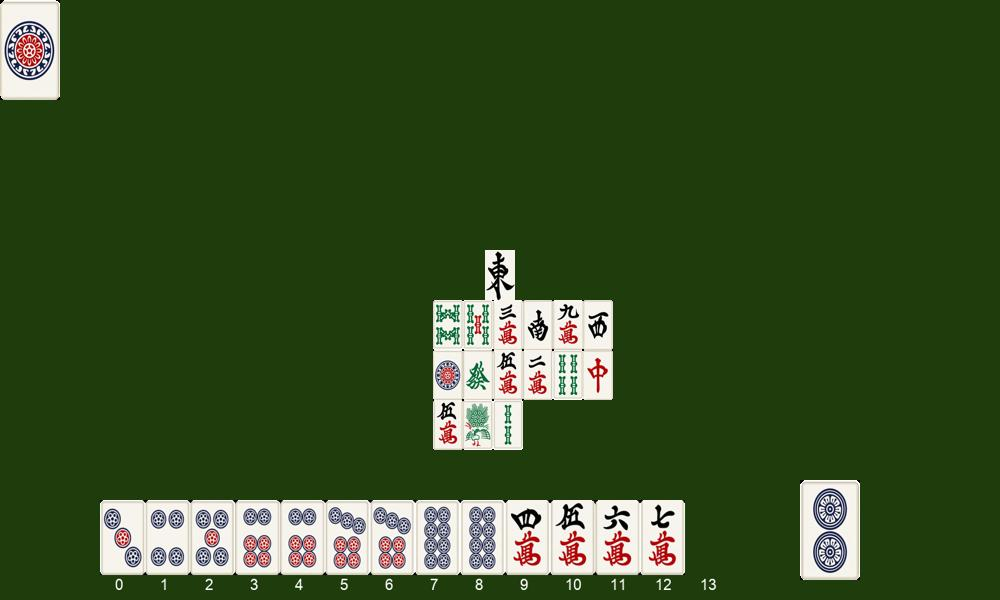
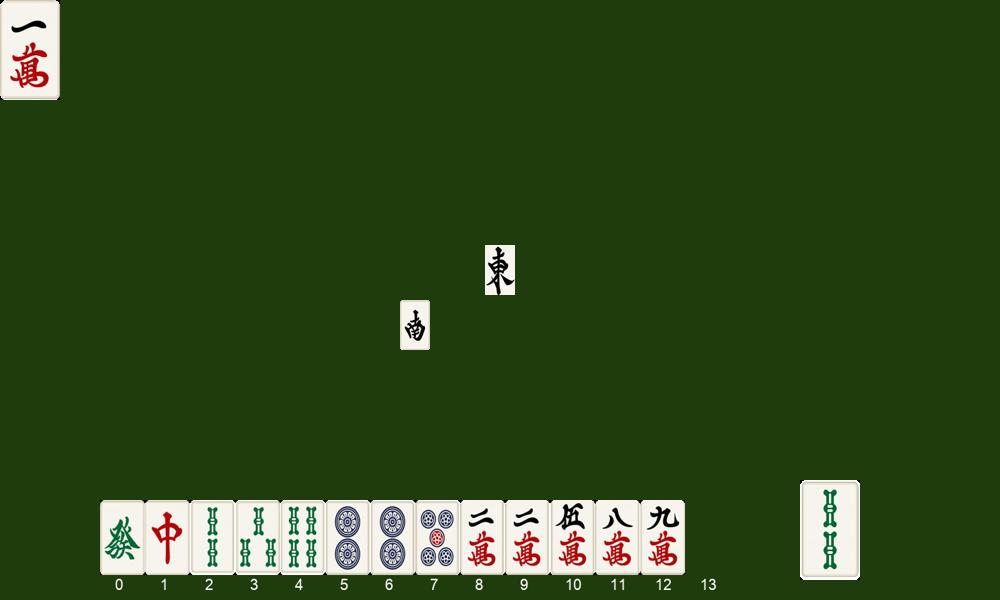
GUI修正

diff --git a/pyjong/main/templates/main/game.html b/pyjong/main/templates/main/game.html
@@ -33,9 +33,6 @@
   <div class="pt-2 pb-5 px-5">
     <input class="form-control" id="gamecontrol" placeholder="エンターキーを押して送信">
   </div>
-  <div class="float-end">
-    <button type="button" id="gamestart2" class="btn btn-outline-primary">ゲームをスタート</button>
-  </div>
 </div>
 
 

diff --git a/pyjong/apps/mahjong/kyoku.py b/pyjong/apps/mahjong/kyoku.py
@@ -45,7 +45,7 @@ class Kyoku():
         self.turn_count = 0
         self.ponkanchi_start_player = 0
 
-        self.board_pic.paste(self.bakaze.resize((30,50)),(485,250))
+        self.board_pic.paste(self.bakaze.resize((30,50)),(485,245))
 
     def next_player(self):
         if self.turn == 3:
@@ -78,7 +78,7 @@ class Kyoku():
 
          #paste new kawa after players finish
         if self.current_player == self.player1:
-            self.board_pic.paste(self.current_player.kawa_pic_gen().resize((180,200)),(433,300))
+            self.board_pic.paste(self.current_player.kawa_pic_gen().resize((180,200)),(400,300))
             try:
                 self.board_pic.paste(self.current_player.kanchipon_pic_gen(),(10,470))
             except:
@@ -86,7 +86,7 @@ class Kyoku():
             if self.current_player.is_riichi:
                 self.board_pic.paste(self.senbou,(250,340))
         elif self.current_player == self.player2:
-            self.board_pic.paste(self.current_player.kawa_pic_gen().resize((180,200)).rotate(90,expand=True),(780,120))
+            self.board_pic.paste(self.current_player.kawa_pic_gen().resize((180,200)).rotate(90,expand=True),(500,120))
             try:
                 self.board_pic.paste(self.current_player.kanchipon_pic_gen().rotate(90,expand=True),(550,450))
             except:
